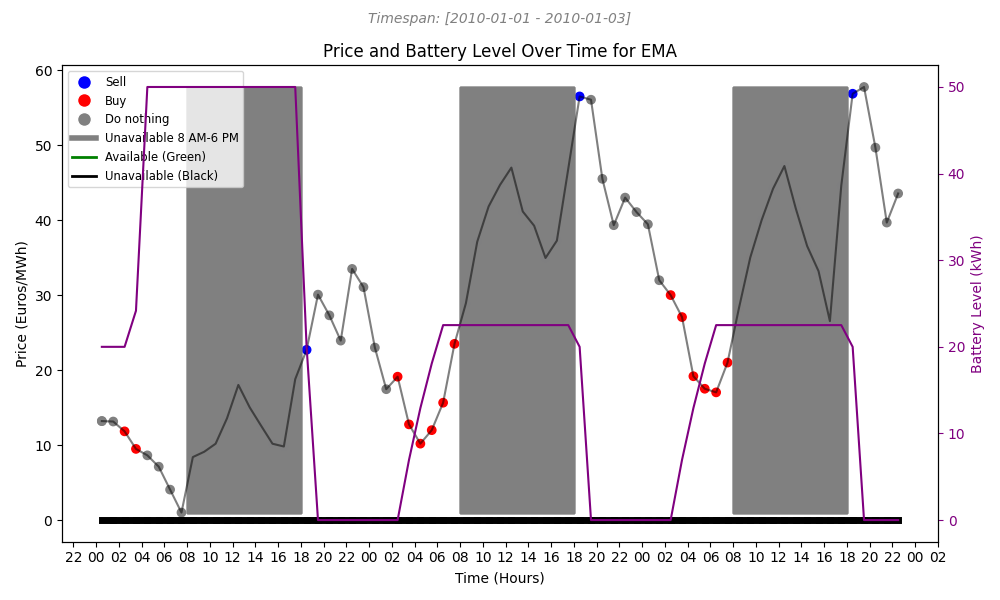
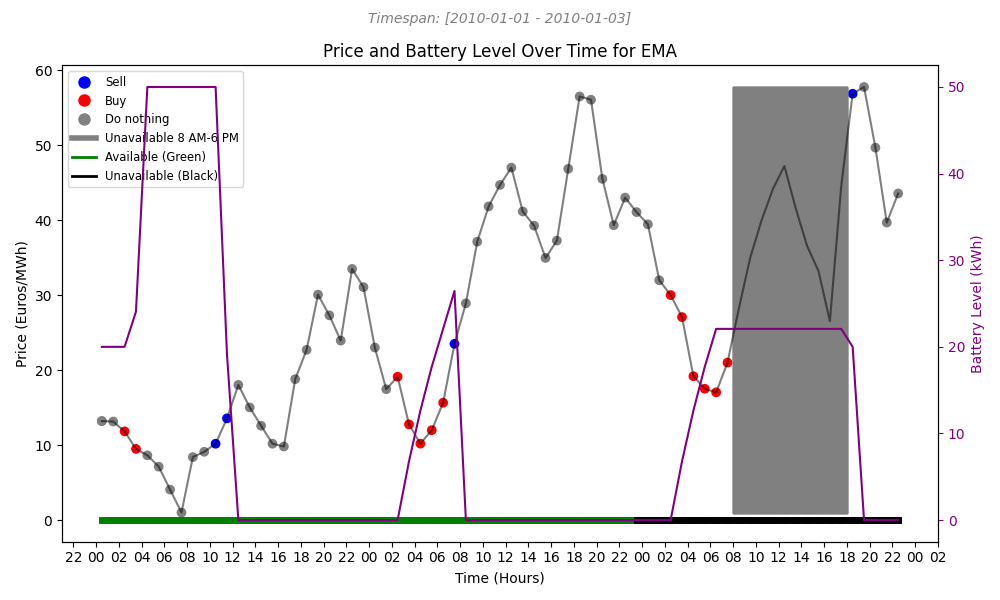
Improve EMA

Changed region(s): [[0.093, 0.12, 0.62, 0.9], [0.713, 0.54, 0.868, 0.57], [0.682, 0.57, 0.713, 0.63]]

diff --git a/algorithms.py b/algorithms.py
@@ -152,13 +152,13 @@ class EMA:
       elif self.short_ema < self.long_ema:
           self.ls_cross = 0
           self.sl_cross += 1
-          if self.sl_cross > 1 and 3 <= state[1] <= 6:
-            self.action = -(self.max_battery - state[0]) / 8
+          if self.sl_cross >= 1 and 3 <= state[1] <= 6:
+            self.action = -(self.max_battery - state[0]) / 8.2
       # If the short EMA is above the long EMA, sell
       elif self.short_ema > self.long_ema:
           self.sl_cross = 0
           self.ls_cross += 1
-          if self.ls_cross > 1:
+          if self.ls_cross >= 1:
               self.action = state[0]
       # Otherwise, do nothing
       else:
